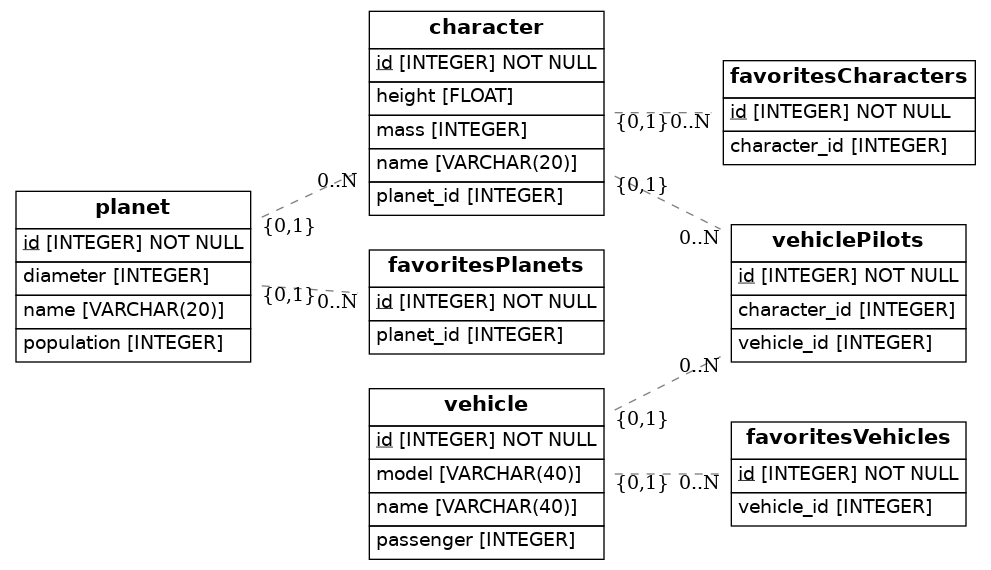
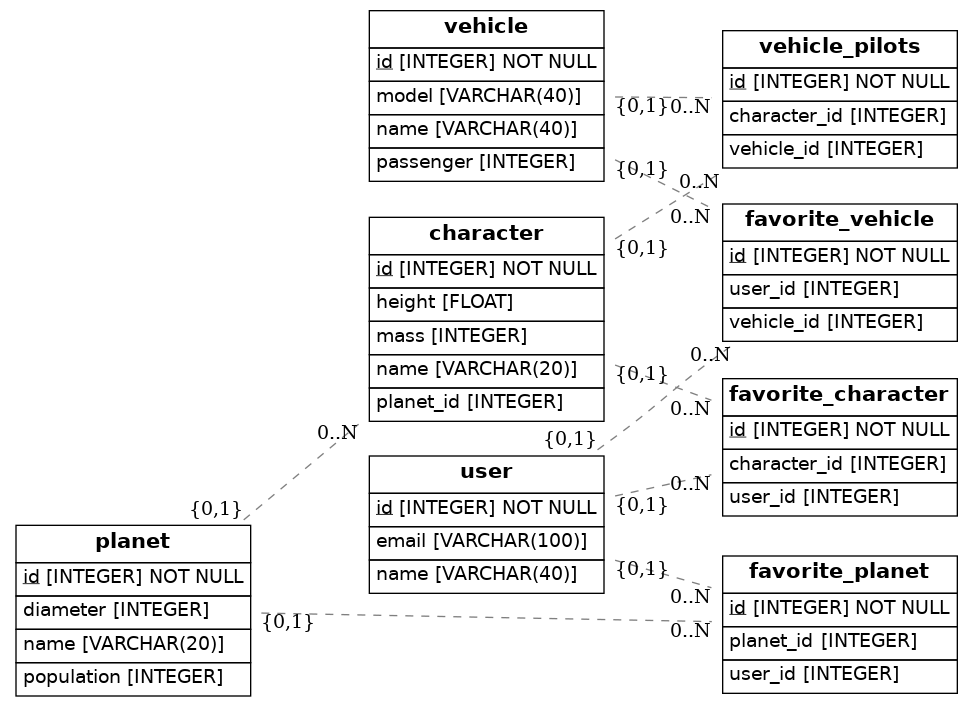
corrected relationships and added users table

Changed region(s): [[0.0, 0.0, 0.9866, 0.9842], [0.0, 0.7158, 0.3392, 1.0]]

diff --git a/src/models.py b/src/models.py
@@ -7,6 +7,12 @@ from eralchemy2 import render_er
 
 Base = declarative_base()
 
+class User(Base):
+    __tablename__= 'user'
+    id = Column(Integer, primary_key=True)
+    name = Column(String (40), unique=True)
+    email = Column(String (100))
+
 class Planet(Base):
     __tablename__= 'planet'
     id = Column(Integer, primary_key=True)
@@ -30,29 +36,35 @@ class Vehicle(Base):
     model = Column(String(40))
     passenger = Column(Integer)
 
-class VehiclePilots(Base):
-    __tablename__= 'vehiclePilots'
+class Vehicle_Pilots(Base):
+    __tablename__= 'vehicle_pilots'
     id = Column(Integer, primary_key=True)
     character_id = Column(Integer, ForeignKey('character.id'))
-    vehicle_id = Column(Integer, ForeignKey('vehicle.id'))
     character = relationship(Character)
-    vehicle = relationship(Vehicle)
-
-class FavoritesVehicles(Base):
-    __tablename__= 'favoritesVehicles'
-    id = Column(Integer, primary_key=True)
     vehicle_id = Column(Integer, ForeignKey('vehicle.id'))
     vehicle = relationship(Vehicle)
 
-class FavoritesPlanets(Base):
-    __tablename__= 'favoritesPlanets'
+class Favorite_Vehicle(Base):
+    __tablename__= 'favorite_vehicle'
     id = Column(Integer, primary_key=True)
+    user_id = Column(Integer, ForeignKey('user.id'))
+    user = relationship(User)
+    vehicle_id = Column(Integer, ForeignKey('vehicle.id'))
+    vehicle = relationship(Vehicle)
+
+class Favorite_Planet(Base):
+    __tablename__= 'favorite_planet'
+    id = Column(Integer, primary_key=True)
+    user_id = Column(Integer, ForeignKey('user.id'))
+    user = relationship(User)
     planet_id = Column(Integer, ForeignKey('planet.id'))
     planet = relationship(Planet)
 
-class FavoritesCharacters(Base):
-    __tablename__= 'favoritesCharacters'
+class Favorite_Character(Base):
+    __tablename__= 'favorite_character'
     id = Column(Integer, primary_key=True)
+    user_id = Column(Integer, ForeignKey('user.id'))
+    user = relationship(User)
     character_id = Column(Integer, ForeignKey('character.id'))
     character = relationship(Character)
     
